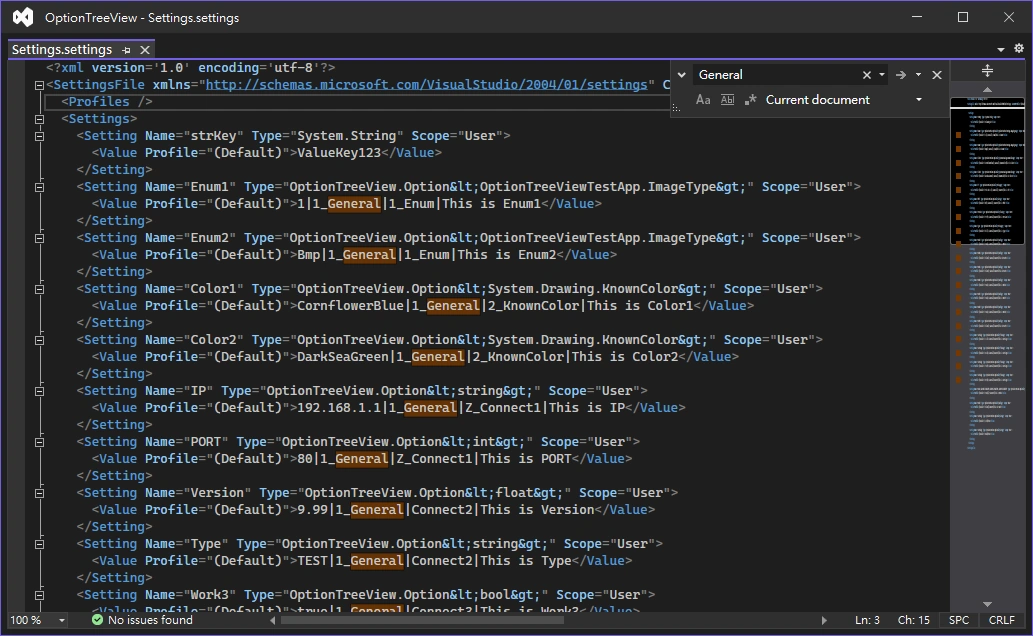
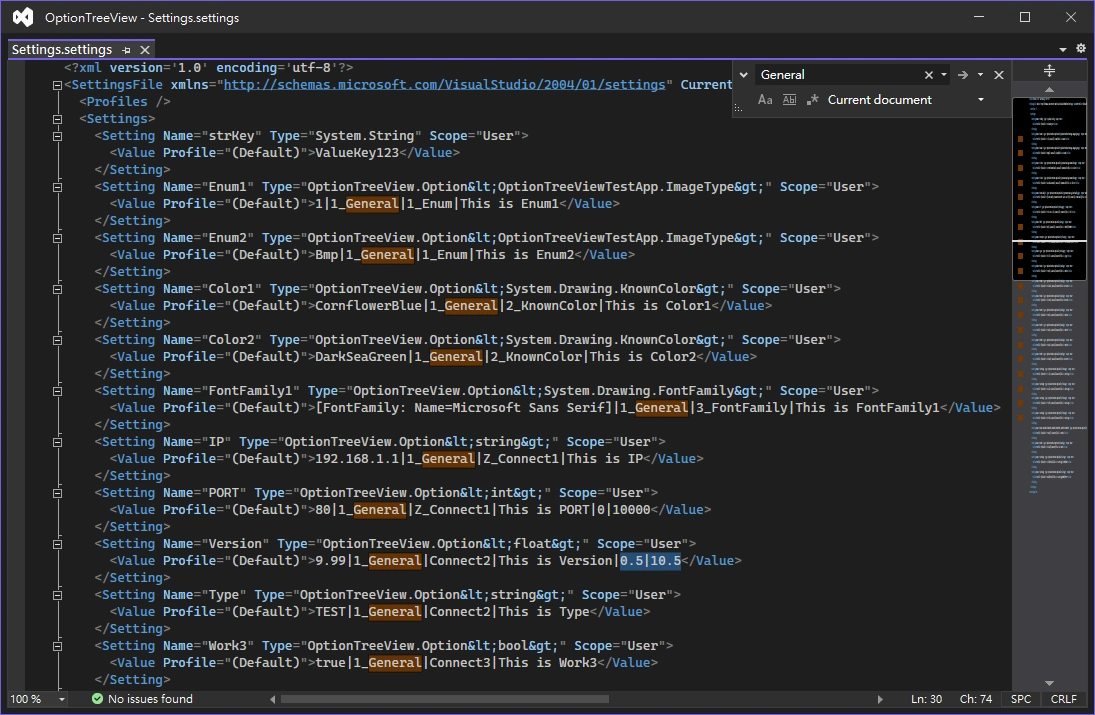
Added MinValue and MaxValue in OptionTreeView.Option.
MinValue and MaxValue define the range of Value, which can be omitted.

The format of the OptionTreeView.Option generic class in the setting value is:

"value|TreeName|GroupName|Description|MinValue|MaxValue", use Vertical bar(|) to separate text, such as
"100|general|factor|This is Description"
"100|general|factor|This is Description|-100|200"

Changed region(s): [[0.0, 0.0, 1.0, 0.9858], [0.9293, 0.0, 0.9603, 0.0299]]

diff --git a/OptionTreeView/Option.cs b/OptionTreeView/Option.cs
@@ -8,16 +8,20 @@ namespace OptionTreeView
 {
     public class BaseOption
     {
-        public Object BaseObject { get; set; }
+        public dynamic BaseObject { get; set; }
         public string TreeName { get; private set; }
         public string GroupName { get; private set; }
         public string Description { get; private set; }
-        public BaseOption(Object baseObject, string treeName, string groupName, string description)
+        public dynamic MinObject { get; private set; }
+        public dynamic MaxObject { get; private set; }
+        public BaseOption(dynamic baseObject, string treeName, string groupName, string description, dynamic minObject, dynamic maxObject)
         {
             BaseObject = baseObject;
             TreeName = treeName;
             GroupName = groupName;
             Description = description;
+            MinObject = minObject;
+            MaxObject = maxObject;
         }
     }
 
@@ -31,10 +35,19 @@ namespace OptionTreeView
     /// </summary>
     [TypeConverter(typeof(OptionTypeConverter))]
     [SettingsSerializeAs(SettingsSerializeAs.String)]
-    public class Option<T> : BaseOption
+    public class Option<dynamic> : BaseOption
     {
-        public T Value { get => (T)BaseObject; set => BaseObject = value; }
-        public Option(T value, string treeName = "Default", string groupName = "Default", string description = "") : base(value, treeName, groupName, description) { }
+        public dynamic Value
+        {
+            get => (dynamic)BaseObject;
+            set
+            {
+                if (MinObject != null && MinObject.GetType().Name != "String" && value < MinObject) value = MinObject;
+                if (MaxObject != null && MaxObject.GetType().Name != "String" && value > MaxObject) value = MaxObject;
+                BaseObject = value;
+            }
+        }
+        public Option(dynamic value, string treeName = "Default", string groupName = "Default", string description = "", object minObject = null, object maxObject = null) : base(value, treeName, groupName, description, minObject, maxObject) { }
         public override string ToString() => Value == null ? "" : Value.ToString();
     }
 
@@ -76,18 +89,23 @@ namespace OptionTreeView
 
             string[] parts = str.Split(new char[] { Separator });
 
-            object obj;
+            object obj, minObj = null, maxObj = null;
             if (InnerType.Name == "FontFamily")
             {
                 if (Regex.Match(parts[0], @"\[FontFamily: *Name=([^]]+)\]") is Match m1 && m1.Success) obj = new FontFamily(m1.Groups[1].Value);
                 else obj = new FontFamily(parts[0]);
             }
-            else obj = InnerTypeConverter.ConvertFrom(parts[0]);
+            else
+            {
+                obj = InnerTypeConverter.ConvertFrom(parts[0]);
+                minObj = (parts.Length > 4 && parts[4] != "") ? InnerTypeConverter.ConvertFrom(parts[4]) : null;
+                maxObj = (parts.Length > 5 && parts[5] != "") ? InnerTypeConverter.ConvertFrom(parts[5]) : null;
+            }
 
             return (BaseOption)Activator.CreateInstance(TypeOfOptionWithGenericArgument, obj,
                 parts.Length > 1 ? parts[1] : "Default",
                 parts.Length > 2 ? parts[2] : "Default",
-                parts.Length > 3 ? parts[3] : "");
+                parts.Length > 3 ? parts[3] : "", minObj, maxObj);
         }
 
         /// <summary>
@@ -99,11 +117,13 @@ namespace OptionTreeView
             if (destinationType != typeof(string) || !GenericInstanceType.IsGenericType || GenericInstanceType.GetGenericTypeDefinition() != typeof(Option<>))
                 return base.ConvertTo(context, culture, value, destinationType);
 
-            return string.Format("{0}" + Separator + "{1}" + Separator + "{2}" + Separator + "{3}",
+            return string.Format("{0}" + Separator + "{1}" + Separator + "{2}" + Separator + "{3}" + Separator + "{4}" + Separator + "{5}",
                 GenericInstanceType.GetProperty("Value").GetValue(value, null),
                 GenericInstanceType.GetProperty("TreeName").GetValue(value, null),
                 GenericInstanceType.GetProperty("GroupName").GetValue(value, null),
-                GenericInstanceType.GetProperty("Description").GetValue(value, null));
+                GenericInstanceType.GetProperty("Description").GetValue(value, null),
+                GenericInstanceType.GetProperty("MinObject").GetValue(value, null),
+                GenericInstanceType.GetProperty("MaxObject").GetValue(value, null));
         }
     }
 }

diff --git a/OptionTreeViewTestApp/Properties/Settings.Designer.cs b/OptionTreeViewTestApp/Properties/Settings.Designer.cs
@@ -110,7 +110,7 @@ namespace OptionTreeViewTestApp.Properties {
         
         [global::System.Configuration.UserScopedSettingAttribute()]
         [global::System.Diagnostics.DebuggerNonUserCodeAttribute()]
-        [global::System.Configuration.DefaultSettingValueAttribute("80|1_General|Z_Connect1|This is PORT")]
+        [global::System.Configuration.DefaultSettingValueAttribute("80|1_General|Z_Connect1|This is PORT|0|10000")]
         public global::OptionTreeView.Option<int> PORT {
             get {
                 return ((global::OptionTreeView.Option<int>)(this["PORT"]));
@@ -122,7 +122,7 @@ namespace OptionTreeViewTestApp.Properties {
         
         [global::System.Configuration.UserScopedSettingAttribute()]
         [global::System.Diagnostics.DebuggerNonUserCodeAttribute()]
-        [global::System.Configuration.DefaultSettingValueAttribute("9.99|1_General|Connect2|This is Version")]
+        [global::System.Configuration.DefaultSettingValueAttribute("9.99|1_General|Connect2|This is Version|0.5|10.5")]
         public global::OptionTreeView.Option<float> Version {
             get {
                 return ((global::OptionTreeView.Option<float>)(this["Version"]));
@@ -302,7 +302,7 @@ namespace OptionTreeViewTestApp.Properties {
         
         [global::System.Configuration.UserScopedSettingAttribute()]
         [global::System.Diagnostics.DebuggerNonUserCodeAttribute()]
-        [global::System.Configuration.DefaultSettingValueAttribute("123|Other||This is Setting1")]
+        [global::System.Configuration.DefaultSettingValueAttribute("123|Other||This is Setting1|-100|400")]
         public global::OptionTreeView.Option<int> Setting1 {
             get {
                 return ((global::OptionTreeView.Option<int>)(this["Setting1"]));
@@ -314,7 +314,7 @@ namespace OptionTreeViewTestApp.Properties {
         
         [global::System.Configuration.UserScopedSettingAttribute()]
         [global::System.Diagnostics.DebuggerNonUserCodeAttribute()]
-        [global::System.Configuration.DefaultSettingValueAttribute("456|Other||This is Setting2")]
+        [global::System.Configuration.DefaultSettingValueAttribute("456|Other||This is Setting2|400|9999")]
         public global::OptionTreeView.Option<int> Setting2 {
             get {
                 return ((global::OptionTreeView.Option<int>)(this["Setting2"]));

diff --git a/OptionTreeView/Properties/AssemblyInfo.cs b/OptionTreeView/Properties/AssemblyInfo.cs
@@ -32,5 +32,5 @@ using System.Runtime.InteropServices;
 // You can specify all the values or you can default the Build and Revision Numbers
 // by using the '*' as shown below:
 // [assembly: AssemblyVersion("1.0.*")]
-[assembly: AssemblyVersion("0.9.6.0")]
-[assembly: AssemblyFileVersion("0.9.6.0")]
+[assembly: AssemblyVersion("0.9.7.0")]
+[assembly: AssemblyFileVersion("0.9.7.0")]

diff --git a/README.md b/README.md
@@ -60,7 +60,10 @@ that automatically generates options windows view. (using Settings.settings)
 - `System.Drawing.FontFamily` for Font Selector ComboBox.
 - The Settings in the GUI Designer interface cannot set the type to a generic class, but...
 - You can open Settings.settings with `XML(text) Editor`, and insert the generic class inside <Settings>, Refer to [Generic types for Settings.settings](https://stackoverflow.com/a/4046036)
-- The format of the `OptionTreeView.Option` generic class in the setting value is: "value`|`TreeName`|`GroupName`|`Description", use Vertical bar(`|`) to separate text, such as `"100|general|factor|This is Description"`.
+- The format of the `OptionTreeView.Option` generic class in the setting value is: "value`|`TreeName`|`GroupName`|`Description`|`MinValue`|`MaxValue", use Vertical bar(`|`) to separate text, such as 
+`"100|general|factor|This is Description"`  
+`"100|general|factor|This is Description|-100|200"`  
+- MinValue and MaxValue define the range of Value, which can be omitted.
 
 ![Settings.settingsXML](assets/Settings.settingsXML.webp)
 
@@ -68,41 +71,41 @@ that automatically generates options windows view. (using Settings.settings)
 
 ```xml
 <SettingsFile ...>
-    <Settings>
-        <Setting Name="strKey" Type="System.String" Scope="User">
-          <Value Profile="(Default)">ValueKey123</Value>
-        </Setting>
-        <Setting Name="Enum1" Type="OptionTreeView.Option&lt;OptionTreeViewTestApp.ImageType&gt;" Scope="User">
-          <Value Profile="(Default)">1|1_General|1_Enum|This is Enum1</Value>
-        </Setting>
-        <Setting Name="Enum2" Type="OptionTreeView.Option&lt;OptionTreeViewTestApp.ImageType&gt;" Scope="User">
-          <Value Profile="(Default)">Bmp|1_General|1_Enum|This is Enum2</Value>
-        </Setting>
-        <Setting Name="Color1" Type="OptionTreeView.Option&lt;System.Drawing.KnownColor&gt;" Scope="User">
-          <Value Profile="(Default)">CornflowerBlue|1_General|2_KnownColor|This is Color1</Value>
-        </Setting>
-        <Setting Name="Color2" Type="OptionTreeView.Option&lt;System.Drawing.KnownColor&gt;" Scope="User">
-          <Value Profile="(Default)">DarkSeaGreen|1_General|2_KnownColor|This is Color2</Value>
-        </Setting>
-        <Setting Name="FontFamily1" Type="OptionTreeView.Option&lt;System.Drawing.FontFamily&gt;" Scope="User">
-          <Value Profile="(Default)">[FontFamily: Name=Microsoft Sans Serif]|1_General|3_FontFamily|This is FontFamily1</Value>
-        </Setting>
-        <Setting Name="IP" Type="OptionTreeView.Option&lt;string&gt;" Scope="User">
-          <Value Profile="(Default)">192.168.1.1|1_General|Z_Connect1|This is IP</Value>
-        </Setting>
-        <Setting Name="PORT" Type="OptionTreeView.Option&lt;int&gt;" Scope="User">
-          <Value Profile="(Default)">80|1_General|Z_Connect1|This is PORT</Value>
-        </Setting>
-        <Setting Name="Version" Type="OptionTreeView.Option&lt;float&gt;" Scope="User">
-          <Value Profile="(Default)">9.99|1_General|Connect2|This is Version</Value>
-        </Setting>
-        <Setting Name="Type" Type="OptionTreeView.Option&lt;string&gt;" Scope="User">
-          <Value Profile="(Default)">TEST|1_General|Connect2|This is Type</Value>
-        </Setting>
-        <Setting Name="Work3" Type="OptionTreeView.Option&lt;bool&gt;" Scope="User">
-          <Value Profile="(Default)">true|1_General|Connect3|This is Work3</Value>
-        </Setting>
-    </Settings>
+  <Settings>
+    <Setting Name="strKey" Type="System.String" Scope="User">
+      <Value Profile="(Default)">ValueKey123</Value>
+    </Setting>
+    <Setting Name="Enum1" Type="OptionTreeView.Option&lt;OptionTreeViewTestApp.ImageType&gt;" Scope="User">
+      <Value Profile="(Default)">1|1_General|1_Enum|This is Enum1</Value>
+    </Setting>
+    <Setting Name="Enum2" Type="OptionTreeView.Option&lt;OptionTreeViewTestApp.ImageType&gt;" Scope="User">
+      <Value Profile="(Default)">Bmp|1_General|1_Enum|This is Enum2</Value>
+    </Setting>
+    <Setting Name="Color1" Type="OptionTreeView.Option&lt;System.Drawing.KnownColor&gt;" Scope="User">
+      <Value Profile="(Default)">CornflowerBlue|1_General|2_KnownColor|This is Color1</Value>
+    </Setting>
+    <Setting Name="Color2" Type="OptionTreeView.Option&lt;System.Drawing.KnownColor&gt;" Scope="User">
+      <Value Profile="(Default)">DarkSeaGreen|1_General|2_KnownColor|This is Color2</Value>
+    </Setting>
+    <Setting Name="FontFamily1" Type="OptionTreeView.Option&lt;System.Drawing.FontFamily&gt;" Scope="User">
+      <Value Profile="(Default)">[FontFamily: Name=Microsoft Sans Serif]|1_General|3_FontFamily|This is FontFamily1</Value>
+    </Setting>
+    <Setting Name="IP" Type="OptionTreeView.Option&lt;string&gt;" Scope="User">
+      <Value Profile="(Default)">192.168.1.1|1_General|Z_Connect1|This is IP</Value>
+    </Setting>
+    <Setting Name="PORT" Type="OptionTreeView.Option&lt;int&gt;" Scope="User">
+      <Value Profile="(Default)">80|1_General|Z_Connect1|This is PORT|0|10000</Value>
+    </Setting>
+    <Setting Name="Version" Type="OptionTreeView.Option&lt;float&gt;" Scope="User">
+      <Value Profile="(Default)">9.99|1_General|Connect2|This is Version|0.5|10.5</Value>
+    </Setting>
+    <Setting Name="Type" Type="OptionTreeView.Option&lt;string&gt;" Scope="User">
+      <Value Profile="(Default)">TEST|1_General|Connect2|This is Type</Value>
+    </Setting>
+    <Setting Name="Work3" Type="OptionTreeView.Option&lt;bool&gt;" Scope="User">
+      <Value Profile="(Default)">true|1_General|Connect3|This is Work3</Value>
+    </Setting>
+  </Settings>
 </SettingsFile>
 ```
 
@@ -174,25 +177,38 @@ Properties.Settings.Default.Save();
 
 - OptionTreeView.Option Class  
 ```cs
-public class Option<T> : BaseOption
+public class Option<dynamic> : BaseOption
 {
-    public T Value { get => (T)BaseObject; set => BaseObject = value; }
-    public Option(T value, string treeName = "Default", string groupName = "Default", string description = "") : base(value, treeName, groupName, description) { }
-    public override string ToString() => Value == null ? "" : Value.ToString();
+  public dynamic Value
+  {
+    get => (dynamic)BaseObject;
+    set
+    {
+      if (MinObject != null && MinObject.GetType().Name != "String" && value < MinObject) value = MinObject;
+      if (MaxObject != null && MaxObject.GetType().Name != "String" && value > MaxObject) value = MaxObject;
+      BaseObject = value;
+    }
+  }
+  public Option(dynamic value, string treeName = "Default", string groupName = "Default", string description = "", object minObject = null, object maxObject = null) : base(value, treeName, groupName, description, minObject, maxObject) { }
+  public override string ToString() => Value == null ? "" : Value.ToString();
 }
     
 public class BaseOption
 {
-    public Object BaseObject { get; set; }
+    public dynamic BaseObject { get; set; }
     public string TreeName { get; private set; }
     public string GroupName { get; private set; }
     public string Description { get; private set; }
-    public BaseOption(Object baseObject, string treeName, string groupName, string description)
+    public dynamic MinObject { get; private set; }
+    public dynamic MaxObject { get; private set; }
+    public BaseOption(dynamic baseObject, string treeName, string groupName, string description, dynamic minObject, dynamic maxObject)
     {
-        BaseObject = baseObject;
-        TreeName = treeName;
-        GroupName = groupName;
-        Description = description;
+      BaseObject = baseObject;
+      TreeName = treeName;
+      GroupName = groupName;
+      Description = description;
+      MinObject = minObject;
+      MaxObject = maxObject;
     }
 }
 ```
